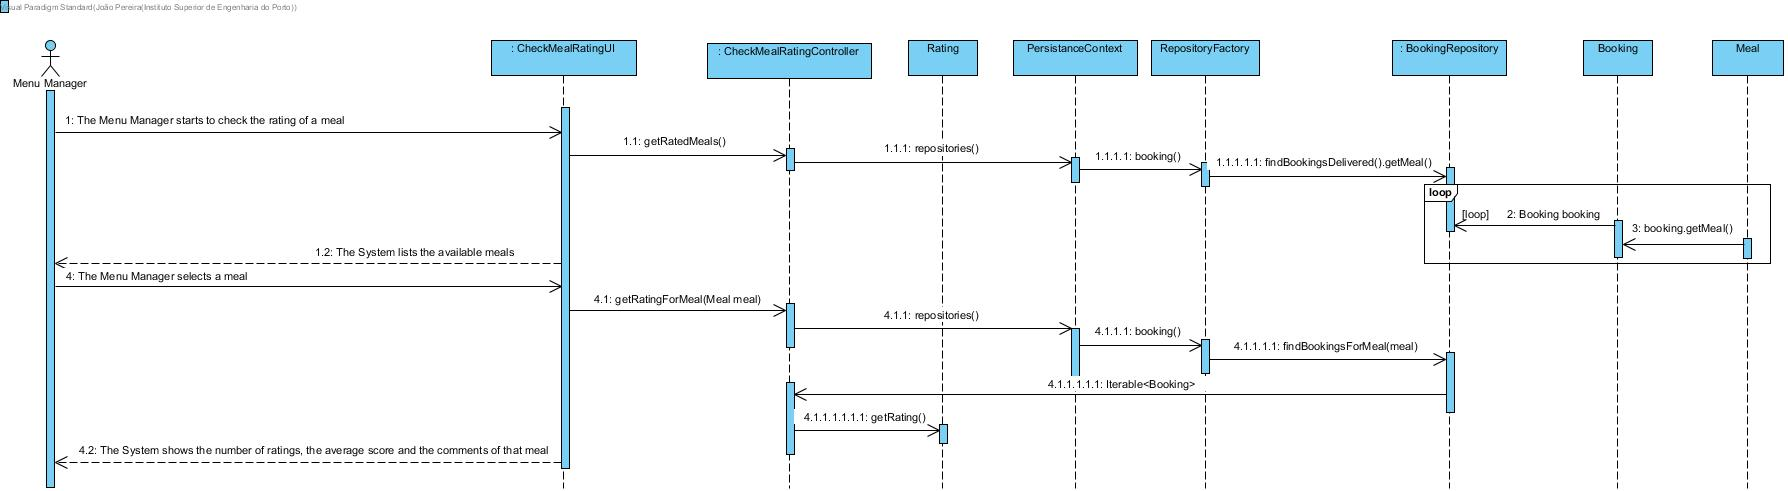
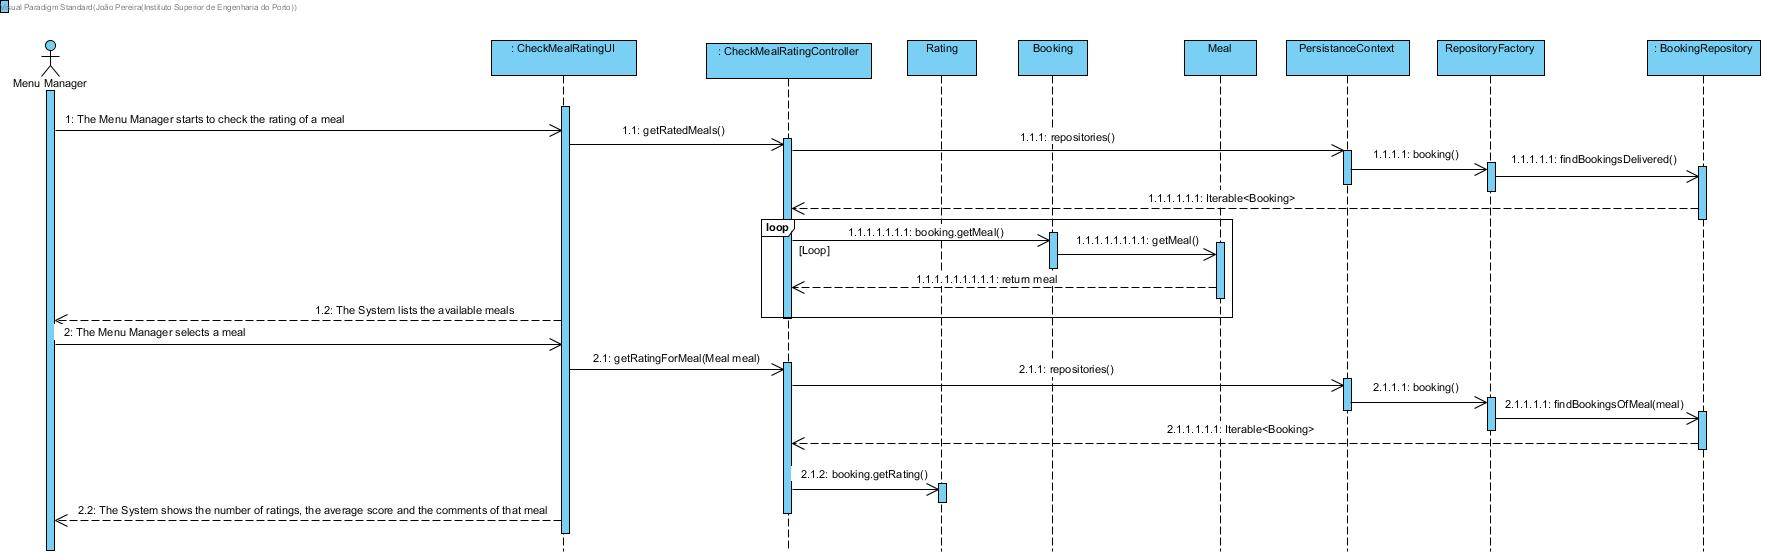
Changes on the user interface and quality of the code. Changes on the DS.

diff --git a/ecafeteria.app.backoffice.console/src/main/java/eapli/ecafeteria/app/backoffice/console/presentation/meals/CheckMealRatingsUI.java b/ecafeteria.app.backoffice.console/src/main/java/eapli/ecafeteria/app/backoffice/console/presentation/meals/CheckMealRatingsUI.java
@@ -1,7 +1,6 @@
 package eapli.ecafeteria.app.backoffice.console.presentation.meals;
 
 import eapli.ecafeteria.application.meals.CheckMealRatingsController;
-import eapli.ecafeteria.domain.booking.Booking;
 import eapli.ecafeteria.domain.meals.Meal;
 import eapli.framework.presentation.console.AbstractUI;
 import eapli.framework.presentation.console.SelectWidget;
@@ -13,54 +12,31 @@ import eapli.framework.presentation.console.SelectWidget;
 public class CheckMealRatingsUI extends AbstractUI {
 
     private final CheckMealRatingsController controller = new CheckMealRatingsController();
-    int average = 0, count = 0, flag = 0, commentFlag = 0;
 
     @Override
     protected boolean doShow() {
 
         if (controller.getMealsOfBookings().isEmpty()) {
             System.out.println("There are no bookings or meals.");
-
             return true;
         }
 
         final SelectWidget<Meal> selector = new SelectWidget<>("Select one meal to see the rating:", controller.getMealsOfBookings());
         selector.show();
-        final Meal meal = selector.selectedElement();
+        final Meal selectedMeal = selector.selectedElement();
 
-        Iterable<Booking> bookingList = controller.getBookingsOfMeal(meal);
-
-        for (Booking booking : bookingList) {
-            if (booking.getRating() != null) {
-                flag++;
-            } else {
-                System.out.println("There are no ratings.");
-                return true;
-            }
+        int numOfRatings = controller.getNumberOfRatings(selectedMeal);
+        if (numOfRatings == 0) {
+            return true;
         }
 
-        System.out.println("\n## RATING INFO of the Meal with the ID  " + meal.getId() + ":\n");
-        System.out.println("\n-> Number of Ratings:  " + flag);
+        System.out.println("\n## RATING INFO of the Meal with the ID  " + selectedMeal.getId() + ":\n");
 
-        for (Booking book : bookingList) {
-            average += book.getRating().getScore();
-            count++;
-        }
-        average /= count;
+        System.out.println("\n-> Number of Ratings:  " + numOfRatings);
 
-        System.out.println("\n-> Average Score:  " + average);
+        System.out.println("\n-> Average Score:  " + controller.getAverage(selectedMeal));
 
-        System.out.println("\n-> Comments: ");
-        for (Booking book : bookingList) {
-            if (book.getRating().getComment() != null) {
-                commentFlag++;
-                if (book.getRating().getComment().getResposta() == null) {
-                    System.out.println("* Comment number " + commentFlag + ":  " + book.getRating().getComment().getRealComment() + ";");
-                } else {
-                    System.out.println("* Comment number " + commentFlag + ":  \nComment: " + book.getRating().getComment().getRealComment() + ";\nAnswer: " + book.getRating().getComment().getResposta() + ";");
-                }
-            }
-        }
+        System.out.println("\n-> Comments: " + controller.getComments(selectedMeal));
 
         return true;
     }

diff --git a/ecafeteria.core/src/main/java/eapli/ecafeteria/application/meals/CheckMealRatingsController.java b/ecafeteria.core/src/main/java/eapli/ecafeteria/application/meals/CheckMealRatingsController.java
@@ -15,11 +15,21 @@ import java.util.Set;
 public class CheckMealRatingsController implements Controller {
 
     private final BookingRepository repBooking = PersistenceContext.repositories().booking();
-
+    private int average = 0, count = 0, flag = 0, commentFlag = 0;
+    private String comment;
+    
+    /**
+     * Returns the bookings that are on delivered state.
+     * @return 
+     */
     public Iterable<Booking> getBookingsDelivered() {
         return repBooking.findBookingsDelivered();
     }
-
+    
+    /**
+     * Returns the meals of the bookings on delivered state.
+     * @return 
+     */
     public Set<Meal> getMealsOfBookings() {
         Set<Meal> mealList = new HashSet<>();
         Iterable<Booking> bookingList = getBookingsDelivered();
@@ -30,9 +40,67 @@ public class CheckMealRatingsController implements Controller {
 
         return mealList;
     }
-
+    
+    /**
+     * Returns the bookings of a meal passed by parameter.
+     * @param meal
+     * @return 
+     */
     public Iterable<Booking> getBookingsOfMeal(Meal meal) {
         return repBooking.findBookingsForMeal(meal);
+    }
+    
+    /**
+     * Returns the number of ratings of a meal.
+     * @param selectedMeal
+     * @return 
+     */
+    public int getNumberOfRatings(Meal selectedMeal) {
+        for (Booking booking : getBookingsOfMeal(selectedMeal)) {
+            if (booking.getRating() != null) {
+                flag++;
+            } else {
+                System.out.println("There are no ratings.");
+                flag = 0;
+            }
+        }
+        return flag;
+    }
+    
+    /**
+     * Returns the average score of ratings.
+     * @param selectedMeal
+     * @return 
+     */
+    public double getAverage(Meal selectedMeal) {
+        for (Booking book : getBookingsOfMeal(selectedMeal)) {
+            average += book.getRating().getScore();
+            count++;
+        }
+        average /= count;
+
+        return average;
+    }
+    
+    /**
+     * Returns the comments and/or answers, if it exists, of ratings.
+     * @param selectedMeal
+     * @return 
+     */
+    public String getComments(Meal selectedMeal) {
+        for (Booking book : getBookingsOfMeal(selectedMeal)) {
+            if (book.getRating().getComment() != null) {
+                commentFlag++;
+                if (book.getRating().getComment().getResposta() == null) {
+                    comment = "* Comment number " + commentFlag + ":  " + book.getRating().getComment().getRealComment() + ";";
+                } else {
+                    comment = "* Comment number " + commentFlag + ":  \nComment: " + book.getRating().getComment().getRealComment() + ";\nAnswer: " + book.getRating().getComment().getResposta() + ";";
+                }
+            } else {
+                System.out.println("This rating has no comments.");
+            }
+        }
+        return comment;
     }
 
 }

diff --git a/ecafeteria.app.backoffice.console/src/main/java/eapli/ecafeteria/app/backoffice/console/presentation/MainMenu.java b/ecafeteria.app.backoffice.console/src/main/java/eapli/ecafeteria/app/backoffice/console/presentation/MainMenu.java
@@ -356,7 +356,7 @@ public class MainMenu extends AbstractUI {
         menu.add(new MenuItem(REGISTER_MEAL_OPTION, "Register Meals",
                 () -> new RegisterMealAction().execute()));
         
-        menu.add(new MenuItem(CHECK_MEAL_RATING_OPTION, "Check a Meal Ratings", new CheckMealRatingsAction()));
+        menu.add(new MenuItem(CHECK_MEAL_RATING_OPTION, "Check the Ratings of a Meal", new CheckMealRatingsAction()));
         
         menu.add(new MenuItem(EXIT_OPTION, "Return", new ReturnAction()));
 
